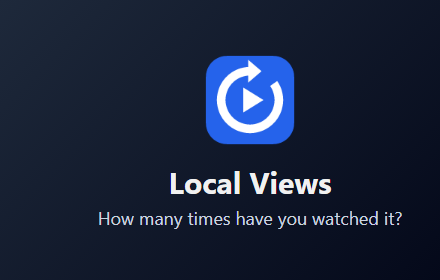
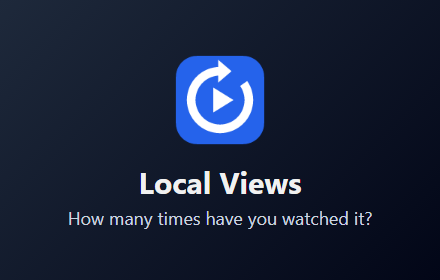
Center the small promo tile
Headless Chrome will not make its window narrower than about 500px, so
the 440x280 tile was laid out wider than the screenshot and its content
ended up off center. The template now pins the page to the asset's exact
size, passed in the URL hash.

Changed region(s): [[0.3841, 0.2, 0.6795, 0.5429], [0.2955, 0.6, 0.7682, 0.7143], [0.1477, 0.7429, 0.9159, 0.8286]]

diff --git a/store/templates/assets.html b/store/templates/assets.html
@@ -4,7 +4,9 @@
 <meta charset="utf-8">
 <title>Store assets</title>
 <!-- Rendered by scripts/store-assets.mjs. The asset and language come from
-     the URL hash, e.g. #screenshot-badge/en. Fonts: system UI fonts only. -->
+     the URL hash, e.g. #screenshot-badge/en/1280x800. The size is set
+     explicitly because headless Chrome will not make its window narrower
+     than about 500px, which would push small tiles off center. Fonts: system UI fonts only. -->
 <style>
   :root {
     --bg: #0f0f0f;
@@ -21,7 +23,7 @@
     color: var(--text);
     font-family: "Segoe UI", Roboto, Arial, sans-serif;
   }
-  .asset { display: none; width: 100%; height: 100%; }
+  .asset { display: none; width: 100%; height: 100%; flex-shrink: 0; }
   .asset.active { display: flex; }
 
   /* Screenshots: 1280x800 */
@@ -209,8 +211,17 @@
     },
   };
 
-  const [id, lang = 'en'] = location.hash.slice(1).split('/');
-  document.getElementById(id)?.classList.add('active');
+  const [id, lang = 'en', size] = location.hash.slice(1).split('/');
+  const asset = document.getElementById(id);
+  asset?.classList.add('active');
+  const [width, height] = (size ?? '').split('x').map(Number);
+  if (asset && width && height) {
+    // Pin the page to the asset's exact size, whatever the window is.
+    for (const element of [document.documentElement, document.body, asset]) {
+      element.style.width = width + 'px';
+      element.style.height = height + 'px';
+    }
+  }
   document.documentElement.lang = lang;
   for (const img of document.querySelectorAll('[data-popup]')) {
     img.src = `../../docs/images/popup-${img.dataset.popup}-${lang}.png`;
